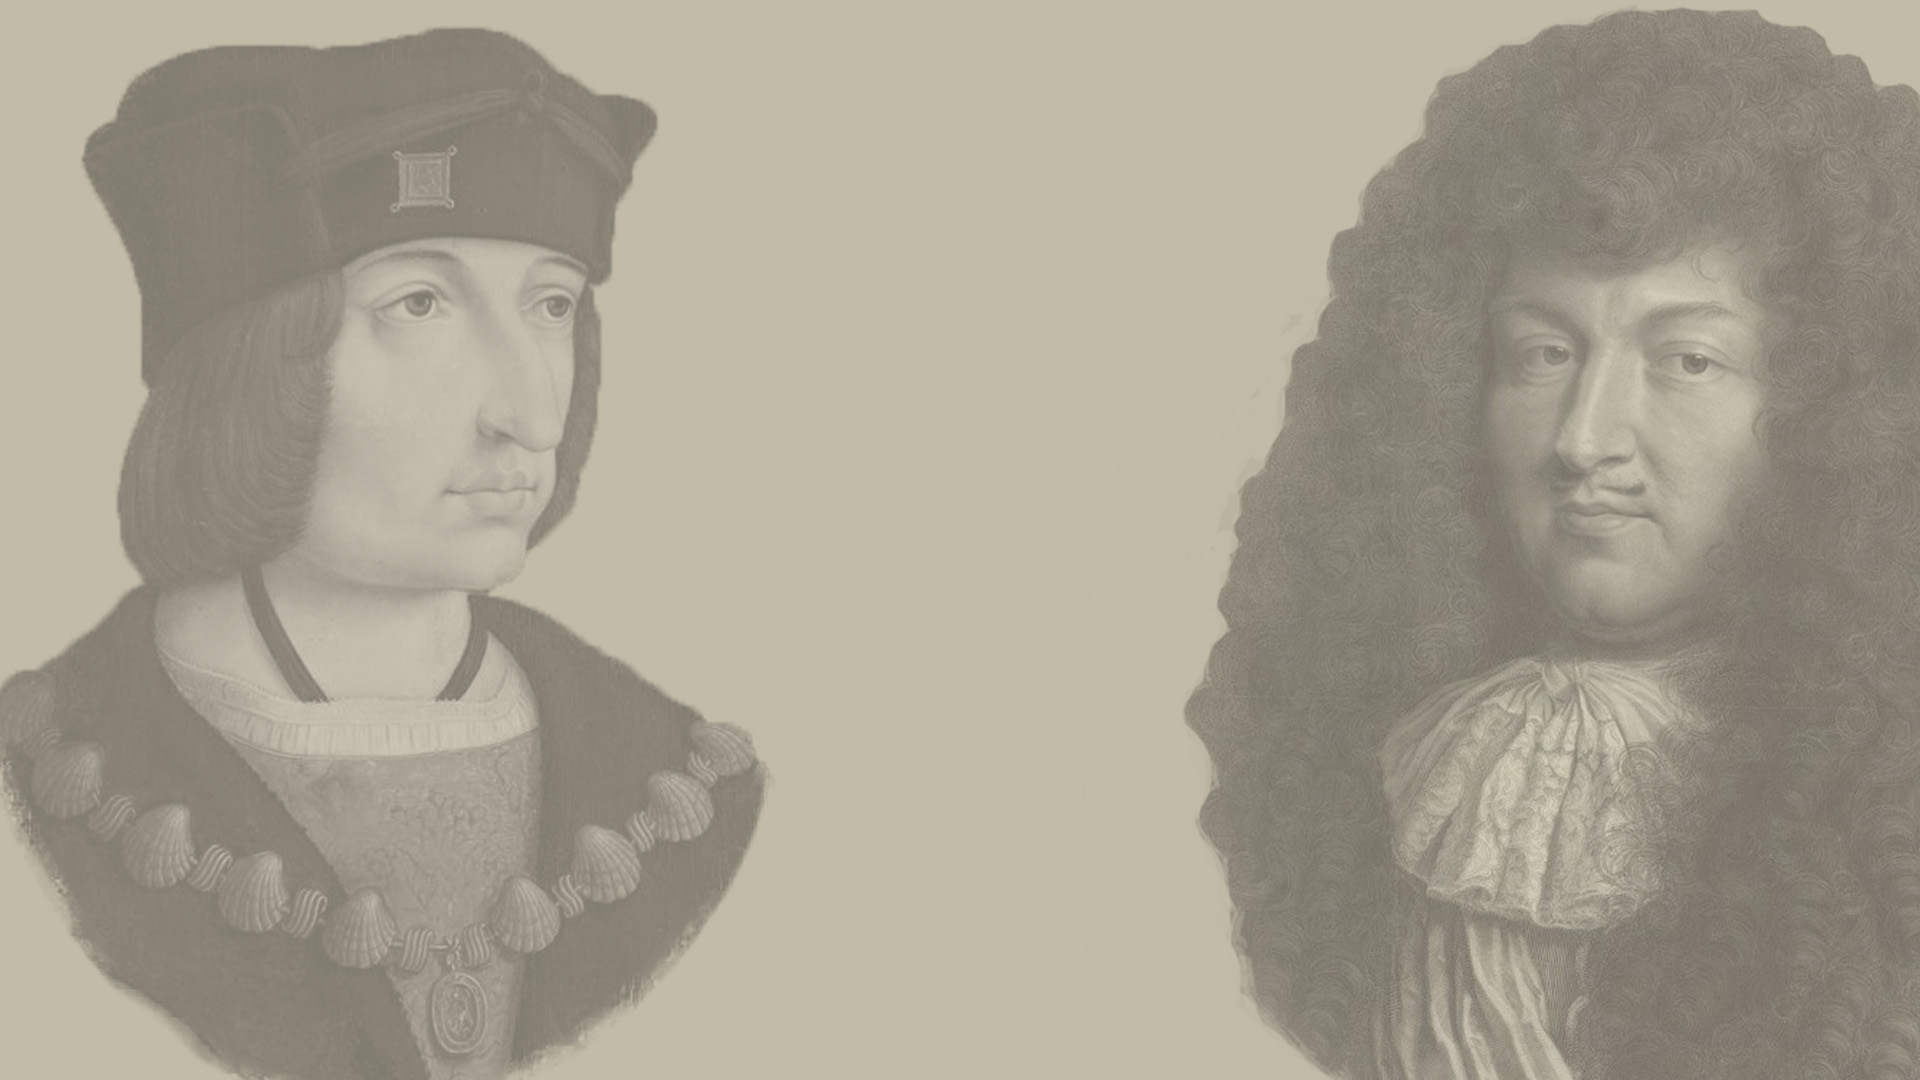
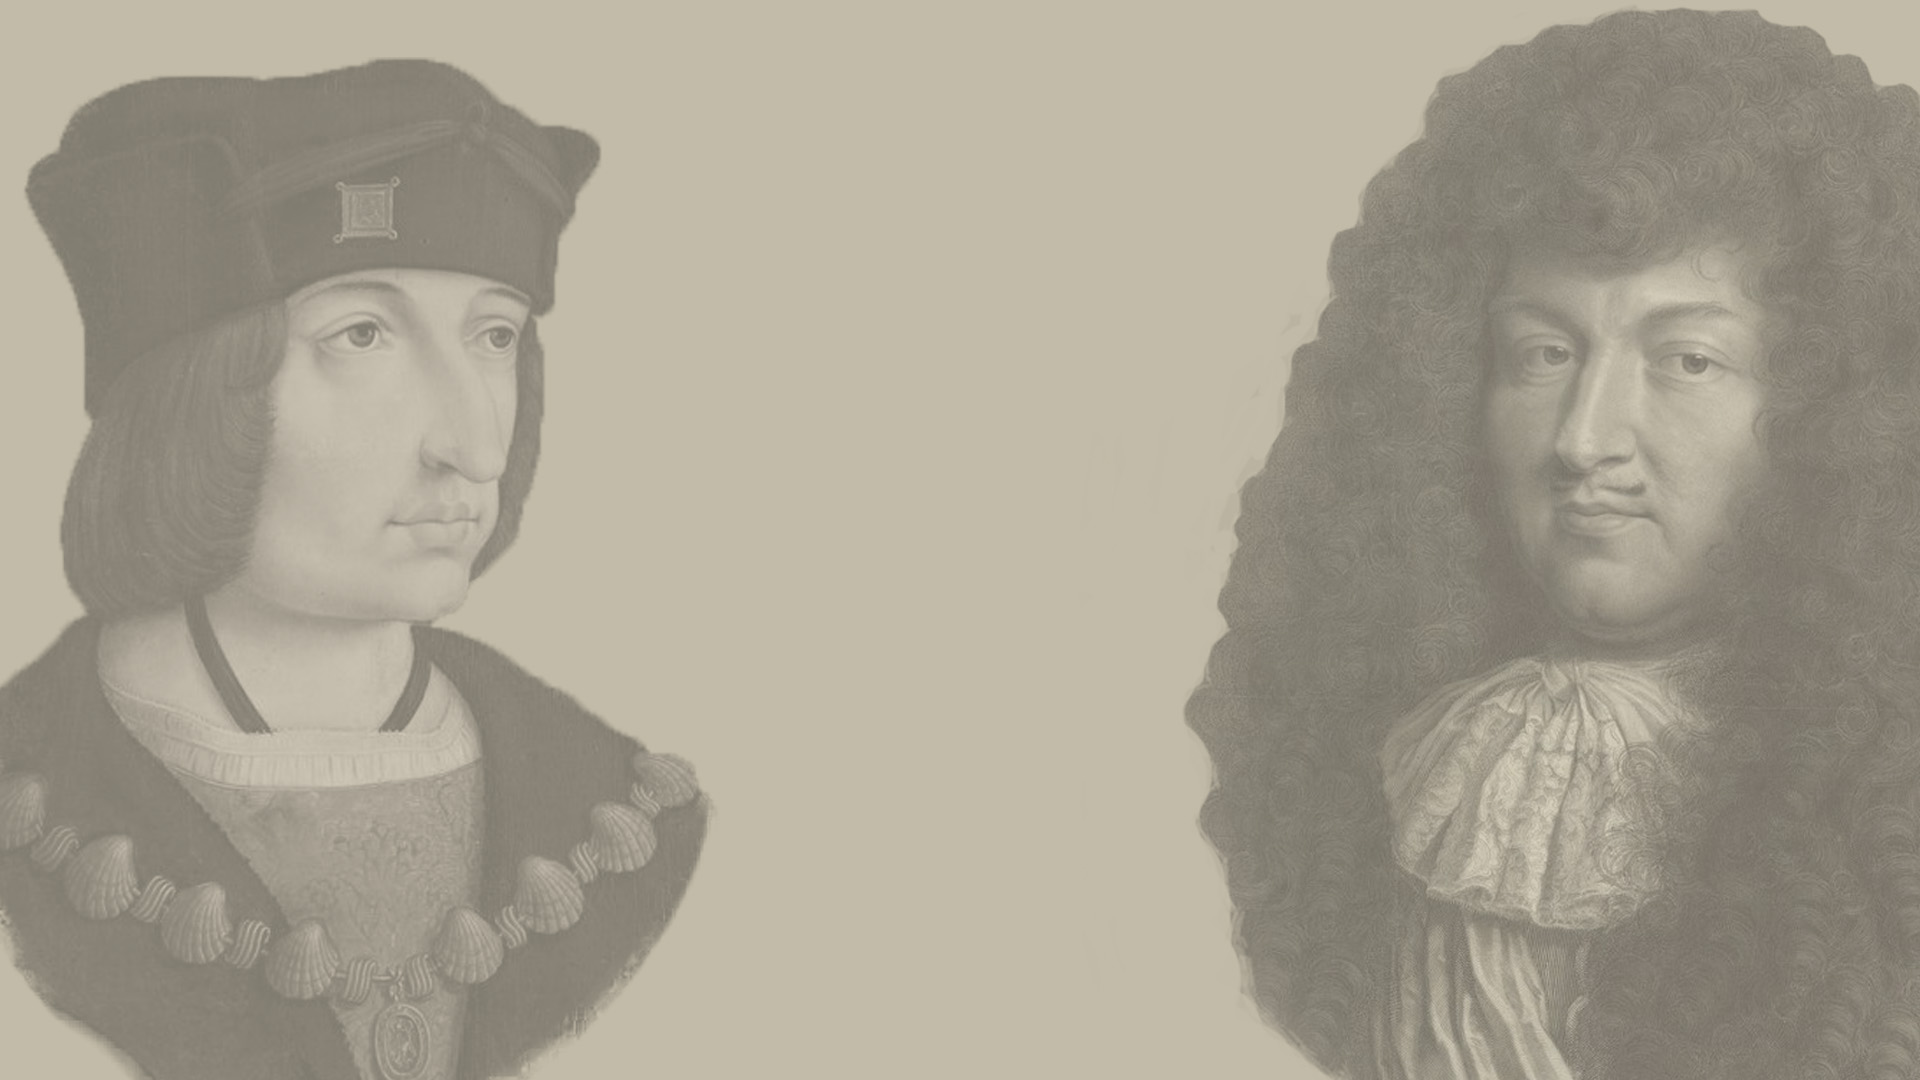
fixed colors

Changed region(s): [[0.0, 0.0, 0.4062, 1.0], [0.3125, 0.8861, 0.3438, 0.9472]]

diff --git a/index.html b/index.html
@@ -26,7 +26,7 @@
         <div id= "box1">
             <div id="wrapper">
                 <div id="nav1">
-                    <h1 id="h1"><a href="#">Mapping France's Diplomatic Geography</a></h1>
+                    <h1 id="h1"><a href="#">Mapping French Diplomacy</a></h1>
                     <div class="btn-group">
                         <button type="button" style="top:20px; margin-left:40px; z-index: 999;" class="btn btn-secondary dropdown-toggle" data-toggle="dropdown" aria-haspopup="true" aria-expanded="false">
                         Table of Contents
@@ -76,7 +76,7 @@
                     <h3 style="text-align: center;">About This Project</h3>
                     <p>In 1494, the kind of France, Charles VIII (r. 1483-1498), marched his army into the Italian peninsula to conquer Naples, which fell under Spain’s sovereignty to fulfill Charles VIII’s claim to the throne. The king’s actions set off a series of wars across Europe and the Mediterranean known as the Italian Wars (1494-1559). Almost all countries of the region were involved, including France, Spain, England, the Low Countries, the Holy Roman Empire, the Ottoman Empire, and the various Italian principalities, to name the most prominent states involved. This explosion of multi-continental war was a catalyst for a dramatic increase in French diplomacy and the development of a network of diplomats across Europe and the Mediterranean region to navigate the numerous alliances that permeated the conflict. For instance, France maintained one permanent ambassador abroad in 1515 but had established at least ten by 1547. France’s diplomatic outreach only expanded after 1559. The diplomatic network and priorities established during these conflicts provided an essential tool the French court used to navigate a series of crises until 1714: a series of religious civil wars in France from 1562 to 1629, France’s entrance into the Thirty Years War from 1630 until 1648, another civil war in France known as The Fronde from 1648 to 1659, and finally the wars of Louis XIV from 1661 to 1714. The end of the War of Spanish Succession in 1714 represented the end of an epoch as Louis XIV placed a member of his Bourbon dynasty on the Spanish throne, cementing the transition of France’s primary rivalry from Spain to England.</p> 
                     <p>Mapping France's Diplomatic Geography seeks to track France's geo-political priorities during this dynamic period in the form of a born-digital monograph. It is focused on reconstructing France's geo-political world in the sixteenth and seventeenth centuries by by mapping all the letters that French rulers wrote to foreign recipients. The project will begin with the Italian wars (1494-1559) and extend to the end of the Wars of Louis XIV (r.1643-1715). This period represents the period during which French foreign policy was predominated by its rivalry with the Habsburgs and speicifically the Spanish Habsburgs.</p>
-                    <p>By mapping these letters, my project will produce a visual representation of France’s international priorities&mdash;what I refer to as its diplomatic geography&mdash;and how it changed over time. I will make two primary arguments. One, the period from 1494 to 1715 represented a single cohesive period of political history, during which France maintained a standard set of priorities that were structural to their foreign policy system: the maintenance of cross-confessional alliances with the Protestant powers of Europe and the Muslim Ottoman Empire. Two, the region comprising the core of France’s foreign-policy priorities—or France’s diplomatic geography—was truly multi-continental, including Europe, the Middle East, and North Africa. </p><br>
+                    <p>By mapping these letters, this project will produce a visual representation of France’s international priorities&mdash;what I refer to as its diplomatic geography&mdash;and how it changed over time. I will make two primary arguments in the project. One, the period from 1494 to 1715 represented a single cohesive period of political history, during which France maintained a standard set of priorities that were structural to their foreign policy system: the maintenance of cross-confessional alliances with the Protestant powers of Europe and the Muslim Ottoman Empire. Two, the region comprising the core of France’s foreign-policy priorities&mdash;or France’s diplomatic geography&mdash;was truly multi-continental, including Europe, the Middle East, and North Africa. </p><br>
                     
                 </div> 
             

diff --git a/css/sixteenthcenturydiplomats_screen.css b/css/sixteenthcenturydiplomats_screen.css
@@ -46,7 +46,7 @@ body::-webkit-scrollbar-thumb {
     position: absolute;
     height: 100%;
     width: 100%;
-    background-color: rgba(255, 255, 255, .7);
+    background-color: rgba(255, 228, 196, .7);
     z-index: 2;
 }
 
@@ -54,7 +54,7 @@ body::-webkit-scrollbar-thumb {
     position:absolute;
     height: 85px;
     width: 100%;
-    background-color:rgba(255, 255, 255, 0.7);
+    background-color:rgba(255, 255, 255, 0.5);
     z-index: 200;
 }
 
@@ -137,7 +137,7 @@ h1:hover{
 }
 
 h2{
-    font-size: 24pt;
+    font-size: 36pt;
     font-weight: bold;
 }
 
@@ -146,7 +146,9 @@ h3{
 }
 
 #title{
-    margin-top: 20%;
+    position:relative;
+    top: 22%;
+    margin-bottom: 15%;
     align-content: center;
     /* font-size: 24pt; */
     font-family: Cambria, Cochin, Georgia, Times, 'Times New Roman', serif;
@@ -158,33 +160,25 @@ h3{
     align-content: center;
     text-align: center;
     width: 500px;
-    background-color: rgba(245, 242, 236, 0.7);
+    background-color: rgba(255, 235, 205, 0.5);
     margin-left: auto;
     margin-right: auto;
-    padding-top: 4rem;
-    padding-bottom: 4rem;
+    padding-top: 2rem;
+    padding-bottom: 2rem;
 }   
+
+.subtitle{
+    font-size: 2rem;
+}
 
 .fixed-bottom{
     position: absolute;
-    background-color: rgba(245, 242, 236, 0.7);
+    background-color: rgba(255, 255, 255, 0.5);
 }
 
 .navbar-brand{
     margin-left: 2rem;
 }
-/* #nav2{
-    position: absolute;
-    background-color: rgba(245, 242, 236, 0.7);
-    text-align: center;
-    vertical-align: middle;
-    font-size: 20pt;
-    bottom:0;
-    height: 65px;
-    width: 100%;
-    margin:0;
-} */
-
 
 .li2{
     display: inline;

diff --git a/sixteenthcenturydiplomats.html b/sixteenthcenturydiplomats.html
@@ -26,7 +26,7 @@
         <div id= "box1">
             <div id="wrapper">
                 <div id="nav1">
-                    <h1 id="h1"><a href="index.html">Mapping France's Diplomatic Geography</a></h1>
+                    <h1 id="h1"><a href="index.html">Mapping French Diplomacy</a></h1>
                     <div class="btn-group">
                         <button type="button" style="top:20px; margin-left:40px; z-index: 999;" class="btn btn-secondary dropdown-toggle" data-toggle="dropdown" aria-haspopup="true" aria-expanded="false">
                         Table of Contents
@@ -54,7 +54,7 @@
                 </div>    
                 <div id="title">
                     <div id="title-line">
-                        <h2>French Diplomats Abroad:<br><br>The Sixteenth Century</h2>
+                        <h2>French Diplomats Abroad</h2><h2 class="subtitle">The Sixteenth Century</h2>
                     </div>
                 </div>
                 <nav class="navbar fixed-bottom navbar-light justify-content-center" style="z-index: 999;">

diff --git a/css/index_screen.css b/css/index_screen.css
@@ -4,7 +4,7 @@ body{
 }
 
 p{
-    margin:10px;
+    margin:20px;
     font-size: 14pt;
 }
 
@@ -50,7 +50,7 @@ body::-webkit-scrollbar-thumb {
     position: absolute;
     height: 100%;
     width: 100%;
-    background-color: rgba(255, 255, 255, .7);
+    background-color: rgba(255, 228, 196, .4);
     z-index: 2;
 }
 
@@ -58,7 +58,7 @@ body::-webkit-scrollbar-thumb {
     position:absolute;
     height: 85px;
     width: 100%;
-    background-color:rgba(255, 255, 255, 0.7);
+    background-color:rgba(255, 255, 255, 0.5);
     z-index: 200;
 }
 
@@ -178,7 +178,7 @@ h3{
 
 .fixed-bottom{
     position: absolute;
-    background-color: rgba(245, 242, 236, 0.7);
+    background-color: rgba(255, 255, 255, 0.5);
 }
 
 .navbar-brand{
